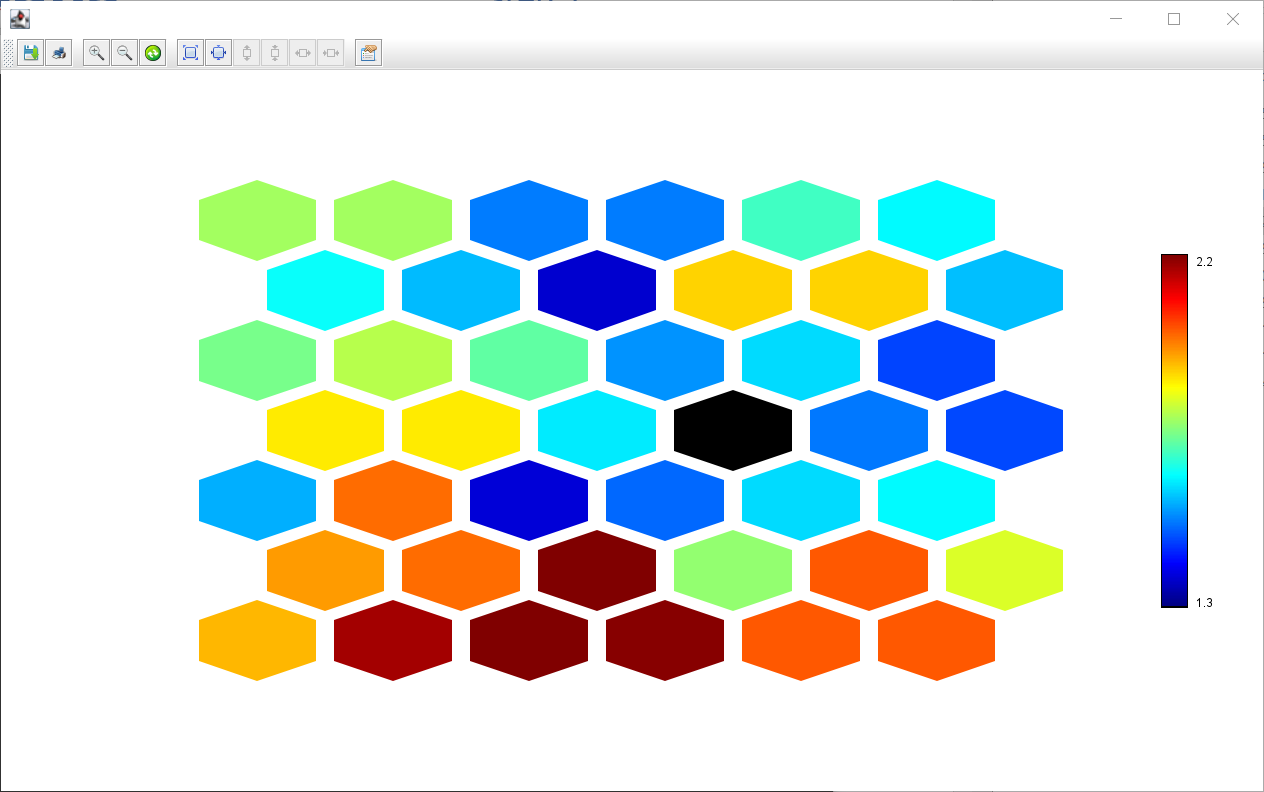
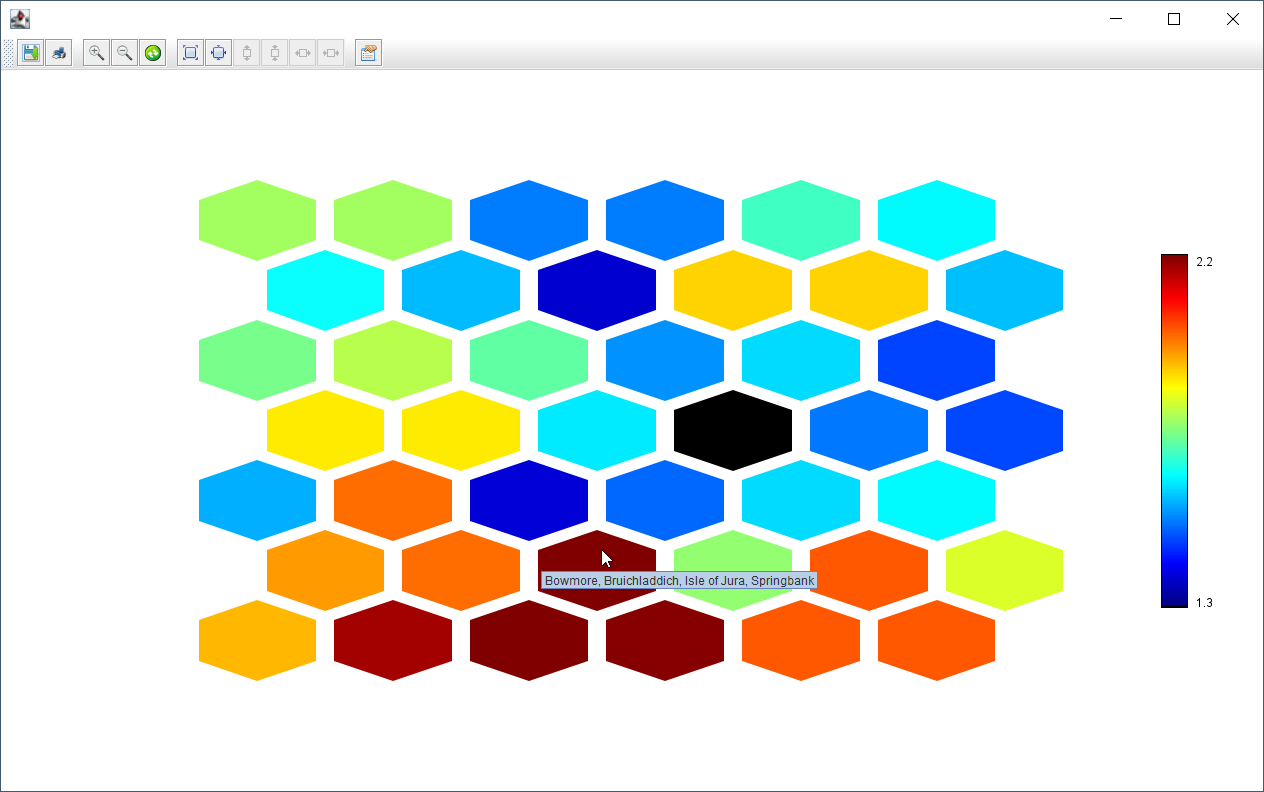
add tooltips to SOM map

Changed region(s): [[0.432, 0.697, 0.6479, 0.7576], [0.9565, 0.0, 1.0, 0.0303], [0.9873, 0.9697, 1.0, 1.0]]

diff --git a/subprojects/Whiskey/README.md b/subprojects/Whiskey/README.md
@@ -99,44 +99,44 @@ Clustering is achieved by grouping together observations
 which are quantized by the neural network to the same value.
 
 ```text
-Cluster 0: Aberfeldy, Benromach
-Cluster 1: Aberlour, Strathisla
-Cluster 2: AnCnoc, Cardhu, Glenallachie, Glenfiddich
-Cluster 3: Ardbeg, Caol Ila, Clynelish, Talisker
-Cluster 4: Ardmore, GlenDeveronMacduff, OldFettercairn, Tomatin
-Cluster 5: ArranIsleOf, Speyburn
-Cluster 6: Auchentoshan, Glengoyne
-Cluster 7: Auchroisk, Glenrothes
-Cluster 8: Aultmore, Dufftown, Speyside
-Cluster 9: Balblair, Craigganmore
-Cluster 10: Balmenach, Glendronach, Macallan
-Cluster 11: Belvenie, Benriach, Dalwhinnie
-Cluster 12: BenNevis, Benrinnes, Glendullan
-Cluster 13: Bladnoch, Bunnahabhain, Loch Lomond, Tamdhu, Tobermory
-Cluster 14: BlairAthol, Mortlach, RoyalLochnagar
-Cluster 15: Bowmore, Bruichladdich, Isle of Jura, Springbank
-Cluster 16: Craigallechie, GlenMoray, Longmorn
-Cluster 17: Dailuaine, Dalmore
-Cluster 18: Deanston
-Cluster 19: Edradour
-Cluster 20: GlenElgin, Glenlivet
-Cluster 21: GlenGarioch
-Cluster 22: GlenGrant, Tomore
-Cluster 23: GlenKeith, Knochando
-Cluster 24: GlenOrd
-Cluster 25: GlenScotia, Highland Park
-Cluster 26: GlenSpey
-Cluster 27: Glenfarclas, Glenturret
-Cluster 28: Glenkinchie, Glenlossie, Tullibardine
-Cluster 29: Glenmorangie, Strathmill, Tamnavulin
-Cluster 30: Inchgower, Tomintoul
-Cluster 31: Lagavulin, Laphroig
-Cluster 32: Linkwood, RoyalBrackla
-Cluster 33: Mannochmore, Scapa
-Cluster 34: Miltonduff
-Cluster 35: Oban
-Cluster 36: OldPulteney
-Cluster 37: Teaninich
+Cluster 0,0: Auchentoshan, Glengoyne
+Cluster 0,1: Inchgower, Tomintoul
+Cluster 0,2: ArranIsleOf, Speyburn
+Cluster 0,3: GlenElgin, Glenlivet
+Cluster 0,4: Glenfarclas, Glenturret
+Cluster 0,5: Aberlour, Strathisla
+Cluster 1,0: Bladnoch, Bunnahabhain, Loch Lomond, Tamdhu, Tobermory
+Cluster 1,1: AnCnoc, Cardhu, Glenallachie, Glenfiddich
+Cluster 1,3: Linkwood, RoyalBrackla
+Cluster 1,4: Craigallechie, GlenMoray, Longmorn
+Cluster 1,5: Aberfeldy, Benromach
+Cluster 2,0: GlenSpey
+Cluster 2,1: Miltonduff
+Cluster 2,2: Glenmorangie, Strathmill, Tamnavulin
+Cluster 2,3: Glenkinchie, Glenlossie, Tullibardine
+Cluster 2,4: GlenOrd
+Cluster 2,5: Belvenie, Benriach, Dalwhinnie
+Cluster 3,0: GlenGrant, Tomore
+Cluster 3,1: Edradour
+Cluster 3,2: GlenKeith, Knochando
+Cluster 3,4: Deanston
+Cluster 3,5: BenNevis, Benrinnes, Glendullan
+Cluster 4,0: Aultmore, Dufftown, Speyside
+Cluster 4,1: Mannochmore, Scapa
+Cluster 4,3: Ardmore, GlenDeveronMacduff, OldFettercairn, Tomatin
+Cluster 4,4: Auchroisk, Glenrothes
+Cluster 4,5: BlairAthol, Mortlach, RoyalLochnagar
+Cluster 5,0: Balblair, Craigganmore
+Cluster 5,1: GlenGarioch
+Cluster 5,2: Bowmore, Bruichladdich, Isle of Jura, Springbank
+Cluster 5,3: GlenScotia, Highland Park
+Cluster 5,4: Dailuaine, Dalmore
+Cluster 5,5: Balmenach, Glendronach, Macallan
+Cluster 6,0: Teaninich
+Cluster 6,1: OldPulteney
+Cluster 6,2: Lagavulin, Laphroig
+Cluster 6,3: Oban
+Cluster 6,4: Ardbeg, Caol Ila, Clynelish, Talisker
 ```
 
 # Scaling clustering
